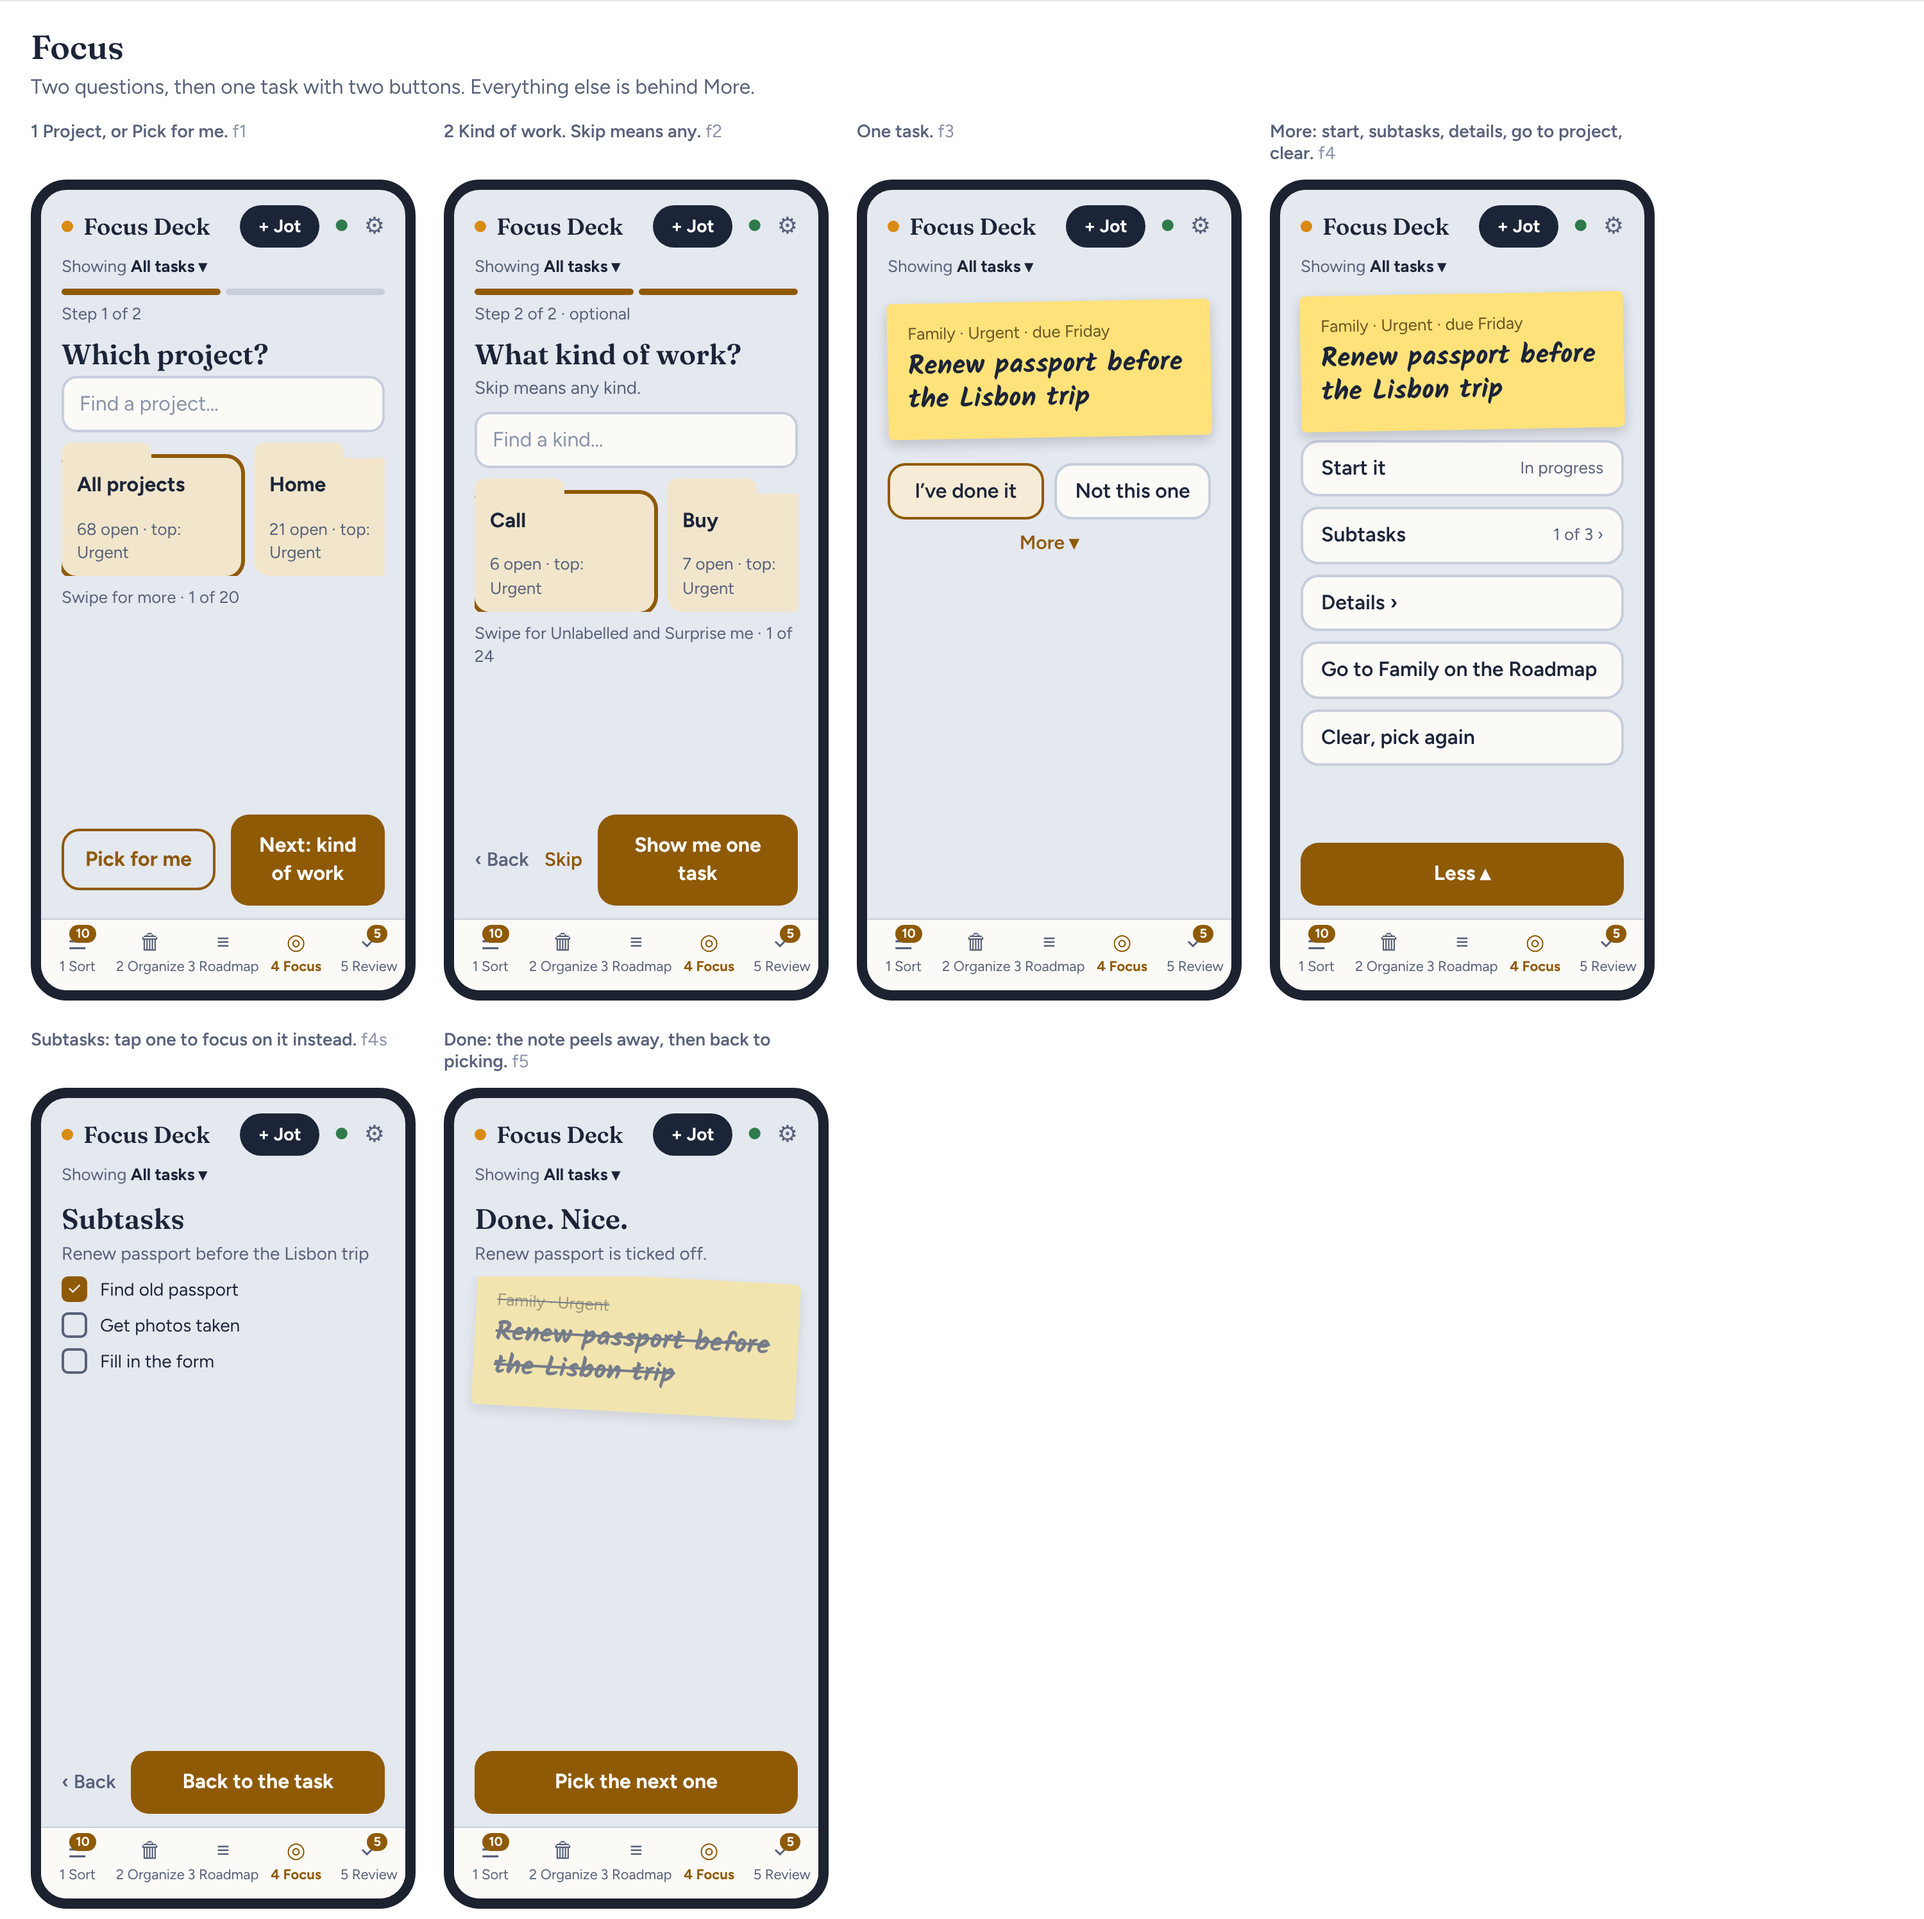
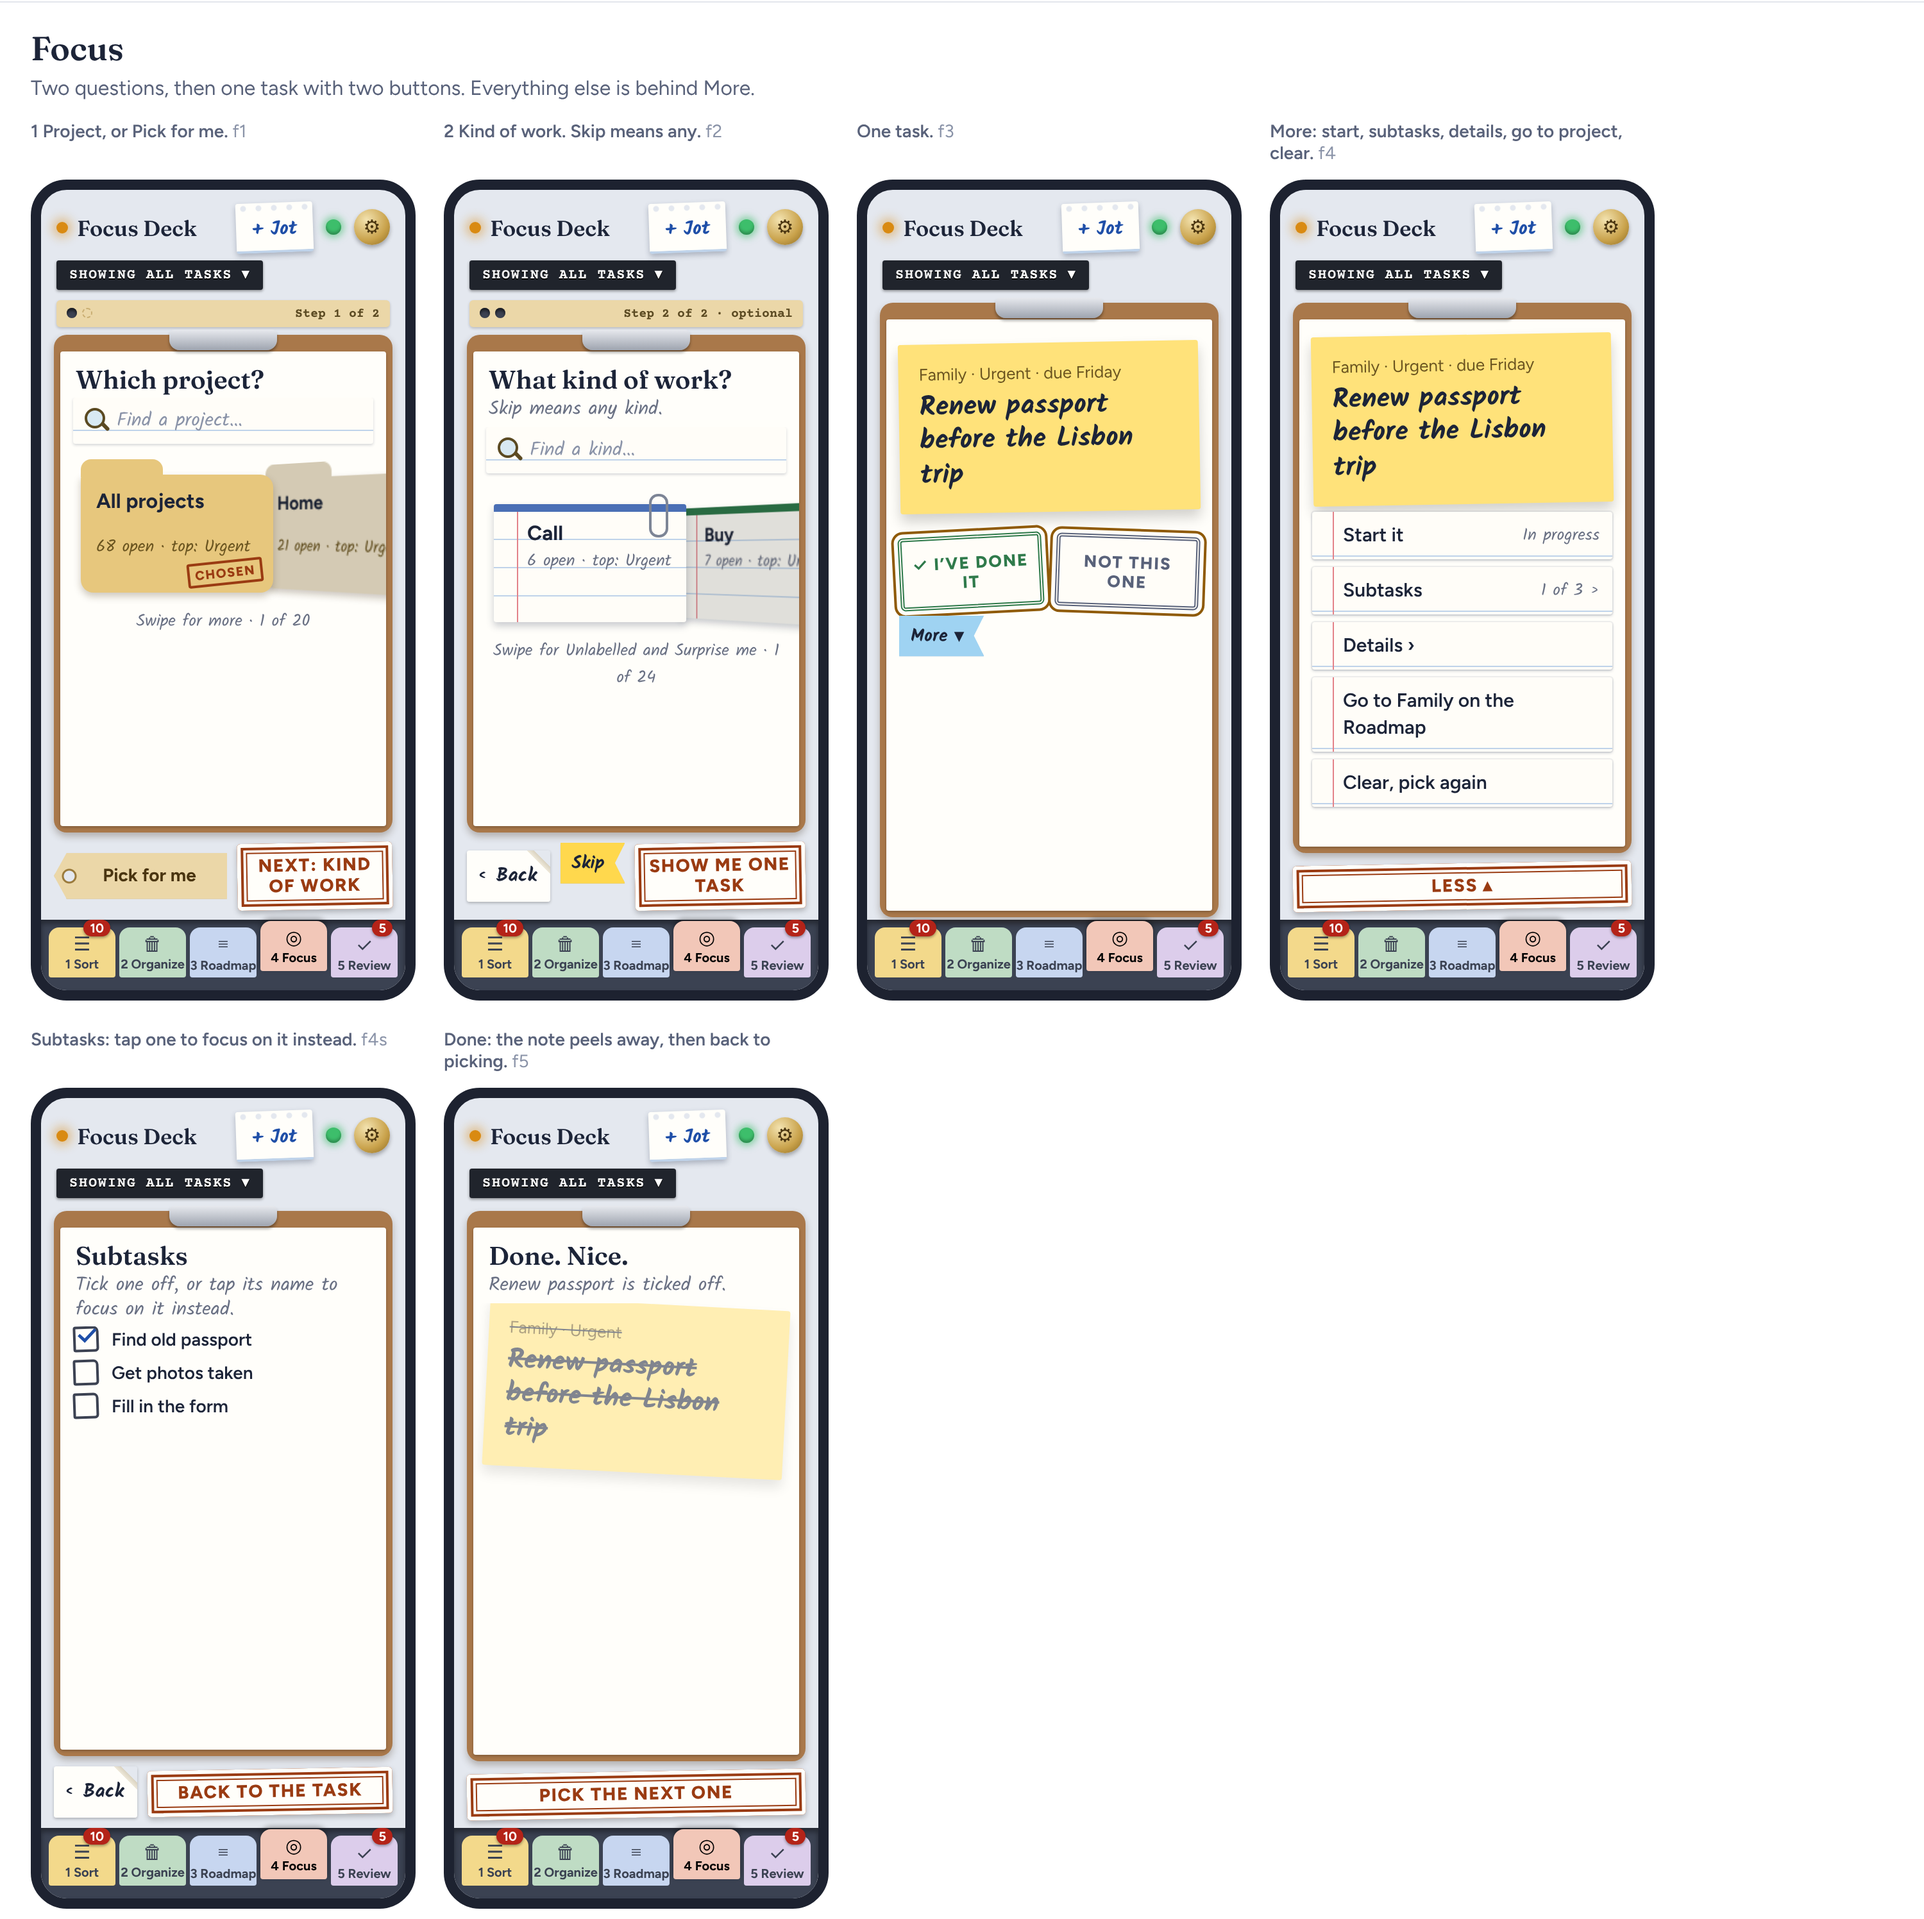
docs: draw every control in the step-by-step prototype as a desk object
Labels and kinds of work become index-card carousels like the project
folders. Adds the object kit to the prototype and the proposal page.

Committed by Edens Agent

diff --git a/docs/plans/friction-steps.html b/docs/plans/friction-steps.html
@@ -273,7 +273,7 @@ const PAGE = {
   "eyebrow": "Proposal · every screen drawn · nothing built yet",
   "approval": "Design approved: step by step",
   "short": {
-    "lead": "The app failed QA because it shows too much at once. This plan keeps every feature and asks one question per screen. This version draws every screen and step, 83 of them, as a clickable prototype you can tap through. I checked all 125 things the app does today against it, and each one has a screen. The pictures and the prototype are drawings. Nothing is built yet, and your app hasn't changed.",
+    "lead": "The app failed QA because it shows too much at once. This plan keeps every feature and asks one question per screen. This version draws every screen and step, 83 of them, as a clickable prototype you can tap through, and every button, field and line of text is now a real desk object. Labels and kinds of work are a carousel, like projects. I checked all 125 things the app does today against it, and each one has a screen. The pictures and the prototype are drawings. Nothing is built yet, and your app hasn't changed.",
     "hint": "Tap each row to see its picture.",
     "key": [
       [
@@ -312,7 +312,7 @@ const PAGE = {
         "Prototype",
         "Click through every screen yourself",
         "",
-        "Every screen in this page is also in a clickable prototype, published as the page "Step by step prototype" (its link is in the chat, not in the repo). Tap a button and it goes where the real app would go. The list on the left jumps to any of the 83 screens. It is a drawing, not the app, so nothing you tap changes your tasks.",
+        "Every screen in this page is also in a clickable prototype, published as the page 'Step by step prototype' (its link is in the chat, not in the repo). Tap a button and it goes where the real app would go. The list on the left jumps to any of the 83 screens. It is a drawing, not the app, so nothing you tap changes your tasks.",
         "Open the prototype on your phone and try sorting one thought from start to finish."
       ],
       [
@@ -322,6 +322,19 @@ const PAGE = {
         "",
         "I listed every action the app can do today, 125 of them, straight from the app's code, and gave each one a screen in the prototype. A check script fails if any action has no screen, or points to a screen that doesn't exist. It passes. Two features I had left out of the first drawings are back: 'Part of a bigger task' and 'Subtasks', which are in today's third Sort step, and the due-date warning ('When should it warn you?'). Settings, the welcome and sync setup are unchanged, because they are already calm. The full list is in docs/generated/friction-steps/feature-map.json.",
         "If you use something that isn't on any screen here, tell me its name."
+      ],
+      [
+        "list",
+        "Look",
+        "Every control is a real object",
+        "you",
+        "No plain buttons are left. Each kind of control has one desk object, the same on every screen, and they match the objects the app already has (folders, index cards, the sticky note, jotter slips). The next step is an ink-stamped card. Back is a page corner folded back. Skip and links are sticky flags. A choice is an index card, and the one you picked gets a paperclip. Priority is coloured page flags, due dates are tear-off calendar pages, and status, Looks good and Done are rubber stamps. Tidy up keeps things in a tray, closes them in a bin and merges them with a stapler. Search is a magnifying glass, typing goes on a jotter strip, the check screen is a till receipt you change in pencil, and menus are a card-index drawer. Every question sits on a clipboard, the tabs are ring-binder dividers, and 'Showing' is label-maker tape.",
+        "Check that each object reads as what it does. Tell me any that don't.",
+        {
+          "src": "friction-steps-pics/p-kit.png",
+          "alt": "A grid of 27 controls drawn as desk objects",
+          "caption": "The object kit: each kind of control and the desk object it becomes."
+        }
       ],
       [
         "list",
@@ -341,7 +354,7 @@ const PAGE = {
         "Sort",
         "One thought, nine steps",
         "you",
-        "Your order, with the two link steps from today put back: project, priority, labels, due date (with an optional 'when to warn you'), part of, subtasks, waits on, holds up, then check. Priority can't be skipped; every other step after it has Skip. The ⋯ on the thought holds Add notes, Done already, Later and Delete. Labels has Find, 'Show all 45 kinds' and '+ New label'. Project has '+ New project'. The check screen shows every answer with Change.",
+        "Your order, with the two link steps from today put back: project, priority, labels, due date (with an optional 'when to warn you'), part of, subtasks, waits on, holds up, then check. Priority can't be skipped; every other step after it has Skip. The ⋯ on the thought holds Add notes, Done already, Later and Delete. Labels are now a carousel of index cards, like projects: you flip through them and tap to pick, a paperclip marks each one you picked, and the picked ones collect as tags underneath. Find narrows the cards, 'A to Z' opens the card drawer, and the last card is '+ New label'. Project has '+ New project'. The check screen shows every answer with Change.",
         "Check that nine steps isn't too long. If it is, option 2 of the first choice below offers a shorter way.",
         {
           "src": "friction-steps-pics/p-sort.png",
@@ -419,7 +432,7 @@ const PAGE = {
         "Focus",
         "Two questions, then one task",
         "you",
-        "Which project (or Pick for me), then what kind of work (Skip means any; Unlabelled and Surprise me are in the folders). Then one task with 'I've done it' and 'Not this one'. The More button lists: start it, subtasks (tick, or tap to focus on one), details, go to the project, and clear. When you finish, the note peels away as today and you pick again.",
+        "Which project (or Pick for me), then what kind of work (Skip means any; Unlabelled and Surprise me are in the folders). Kinds of work are index cards, as in the app today. Then one task on its sticky note, with two rubber stamps: 'I've done it' and 'Not this one'. The More button lists: start it, subtasks (tick, or tap to focus on one), details, go to the project, and clear. When you finish, the note peels away as today and you pick again.",
         "Check that More is the right place for Start it.",
         {
           "src": "friction-steps-pics/p-focus.png",
@@ -432,7 +445,7 @@ const PAGE = {
         "Review",
         "One task at a time",
         "you",
-        "Review asks 'Is it finished?' one task at a time: Looks good or Needs more work, with Open details. Done this week keeps Undo on each task.",
+        "Review asks 'Is it finished?' one task at a time, with two rubber stamps: Looks good or Needs more work, and Open details. Done this week keeps Undo on each task.",
         "Check that one at a time suits Review too.",
         {
           "src": "friction-steps-pics/p-review.png",

diff --git a/docs/5-today/Today.md b/docs/5-today/Today.md
@@ -597,3 +597,7 @@ Click a milestone's name on the Roadmap: a dialog (a bottom sheet on a phone) se
 ## 2026-11-12, later: jot choice made, on the mock-up only
 
 Eden picked the "+ Jot" button for the step-by-step proposal, placed in the header on every screen. I misread that as approval to build it and started a builder; Eden said it was meant for the mock-up only, so the build was stopped before anything was merged (issue #260 is on hold). The proposal page and drawings now show + Jot in the header. Waiting on Eden's review of the rest of the design and the two remaining choices.
+
+## 2026-11-12, later still: every control drawn as a real desk object
+
+Eden asked that nothing in the prototype be a plain button or plain text, and that labels use the carousel. prototype.html now draws each kind of control as one desk object (its "Every control is a real object" section lists all 27), and labels and kinds of work are index-card carousels like the project folders. The checks still pass: 83 screens, no broken taps, nothing cut off, all 125 actions mapped. Waiting on Eden's review.
